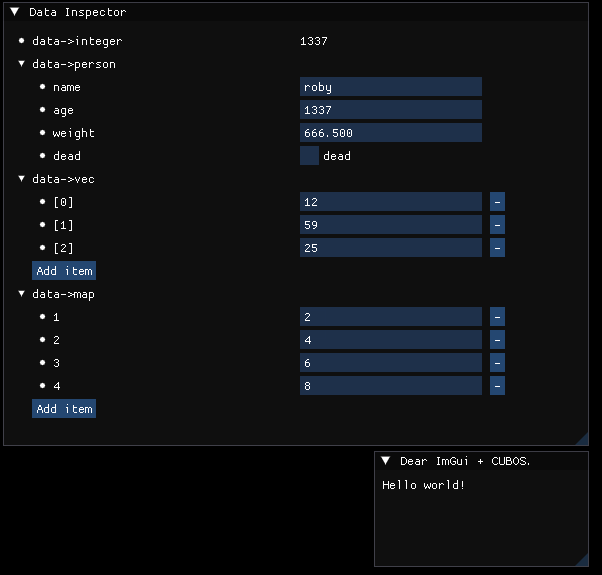
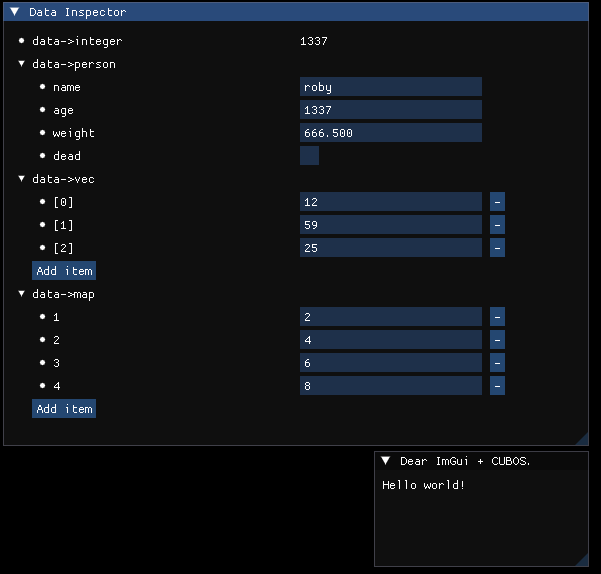
samples(imgui): remove bool input label

diff --git a/engine/src/cubos/engine/imgui/data_inspector.cpp b/engine/src/cubos/engine/imgui/data_inspector.cpp
@@ -352,10 +352,12 @@ bool DataInspector::editKnown(const std::string& name, const Type& type, void* v
     if (type.is<bool>())
     {
         supported = true;
-        if (ImGui::Checkbox(name.c_str(), static_cast<bool*>(value)))
+        ImGui::PushID(name.c_str());
+        if (ImGui::Checkbox("", static_cast<bool*>(value)))
         {
             modified = true;
         }
+        ImGui::PopID();
     }
     if (type.is<std::string>())
     {
